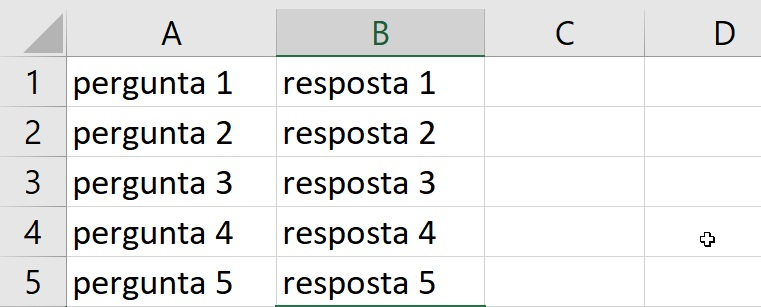
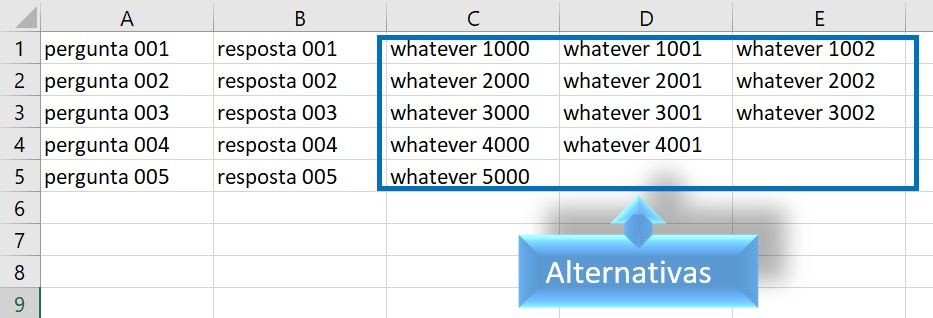
adicionada a possibilidade de ler mais de 1 alternativa.

diff --git a/JabilQuiz/ClientApp/src/app/upload-file/upload-file/upload-file.component.html b/JabilQuiz/ClientApp/src/app/upload-file/upload-file/upload-file.component.html
@@ -58,8 +58,15 @@
           </div>
         </div>
 
-        <button type="submit" style="margin-top: 15px" class="btn btn-success" [disabled]="!gameForm.form.valid">Submit</button>
-        <!-- <button type="button" class="btn btn-default" (click)="newGame(); heroForm.reset()">New Hero</button> -->
+        <button class="btn btn-success" style="margin-top: 15px;padding-left:35px;" type="submit"  [disabled]="!(gameForm.form.valid && changeFile)">
+          <div [hidden]="!loading">
+            <span class="sr-only"></span>
+            <span class="spinner-border spinner-border-sm" role="status" aria-hidden="true" ></span>
+          </div>
+        Submit</button>
+
+        <!-- <button type="submit" style="margin-top: 15px" class="btn btn-success" [disabled]="!gameForm.form.valid">Submit</button> -->
+
       </div>
     </form>
   </div>
@@ -79,40 +86,10 @@
   </div>
 </div>
 
-
-
-
-
-
-
-
-
-
-
-
-
-<!-- <div class="row">
-  <div class="col">
-    <label for="Title" class="form-label">Título</label>
-    <input type="text" id="title" class="form-control"  placeholder="Insira um título para o Quiz" required aria-label="Título">
-  </div>
-  <div class="col">
-    <label for="User" class="form-label">Usuário</label>
-    <input type="text" id="user" class="form-control" placeholder="Nome do Usuário" aria-label="Usuário">
-  </div>
-</div> -->
-
-
-  <!-- <button type="button" class="btn btn-primary" (click)="onDownloadExcel()">
-    Download Excel
-  </button>
-  <button type="button" class="btn btn-primary" (click)="onDownloadPDF()">
-    Download PDF
-  </button> -->
-
-
 <div class="alert alert-success" style="margin-top: 60px" role="alert"><i class="bi bi-filetype-exe"></i>
- O arquivo deve conter duas colunas, sendo que a primeira é responsável por conter as perguntas do Quiz e a segunda, ficará responsável por conter as respostas.
+ O arquivo deve conter no minimo duas colunas, sendo que a primeira é responsável por conter as perguntas do Quiz.
+ Já a segunda, ficará responsável por conter a resposta correta.
+ Quanto as demais colunas, servirão para alternativas
 </div>
 
 <img src="assets/img/exemple.jpg" class="img-fluid" alt="Exemple">

diff --git a/JabilQuiz/ClientApp/src/app/upload-file/upload-file/upload-file.component.ts b/JabilQuiz/ClientApp/src/app/upload-file/upload-file/upload-file.component.ts
@@ -22,6 +22,8 @@ export class UploadFileComponent implements OnInit {
   quizList: Quiz[];
   game = new Game();
   submitted: boolean;
+  loading:boolean = false;
+  changeFile:boolean = false;
   constructor(private service: UploadFileService) { }
 
   ngOnInit() { }
@@ -29,9 +31,9 @@ export class UploadFileComponent implements OnInit {
   onChange(event) {
     console.log(event);
 
+
     const selectedFiles = <FileList>event.srcElement.files;
     // document.getElementById('customFileLabel').innerHTML = selectedFiles[0].name;
-
     const fileNames = [];
     this.files = new Set();
     for (let i = 0; i < selectedFiles.length; i++) {
@@ -40,11 +42,16 @@ export class UploadFileComponent implements OnInit {
     }
     document.getElementById('customFileLabel').innerHTML = fileNames.join(', ');
 
+    if(this.files.size == 1)
+      this.changeFile = true;
+      else
+      this.changeFile = false;
     this.progress = 0;
   }
 
   onSubmit() {
 
+    this.loading = true;
     if (this.files && this.files.size > 0) {
       this.service.upload(this.files,  'api/Upload/UploadFiles',this.game)
         .pipe(
@@ -56,8 +63,11 @@ export class UploadFileComponent implements OnInit {
         .subscribe(response => {
           this.quizList = response as Quiz[];
           this.service.Save(response,this.quizUrl)
+          this.loading = false;
         });
     }
+
+
   }
 
   onDownloadExcel() {

diff --git a/JabilQuiz/ClientApp/src/app/upload-file/upload-file.module.ts b/JabilQuiz/ClientApp/src/app/upload-file/upload-file.module.ts
@@ -6,12 +6,14 @@ import { UploadFileComponent } from './upload-file/upload-file.component';
 import { FormsModule } from '@angular/forms';
 
 
+
 @NgModule({
   declarations: [UploadFileComponent],
   imports: [
     CommonModule,
     UploadFileRoutingModule,
-    FormsModule
+    FormsModule,
+
   ]
 })
 export class UploadFileModule { }

diff --git a/JabilQuiz/ClientApp/src/styles.css b/JabilQuiz/ClientApp/src/styles.css
@@ -1,5 +1,5 @@
 /* You can add global styles to this file, and also import other style files */
-
+@import "bootstrap/dist/css/bootstrap.min.css";
 /* Provide sufficient contrast against white background */
 a {
   color: #0366d6;

diff --git a/JabilQuiz/ClientApp/src/app/app.module.ts b/JabilQuiz/ClientApp/src/app/app.module.ts
@@ -26,7 +26,8 @@ import { UploadFileModule } from './upload-file/upload-file.module';
     HttpClientModule,
     FormsModule,
     UploadFileModule,
-    AppRoutingModule
+    AppRoutingModule,
+
 
   ],
   providers: [],
